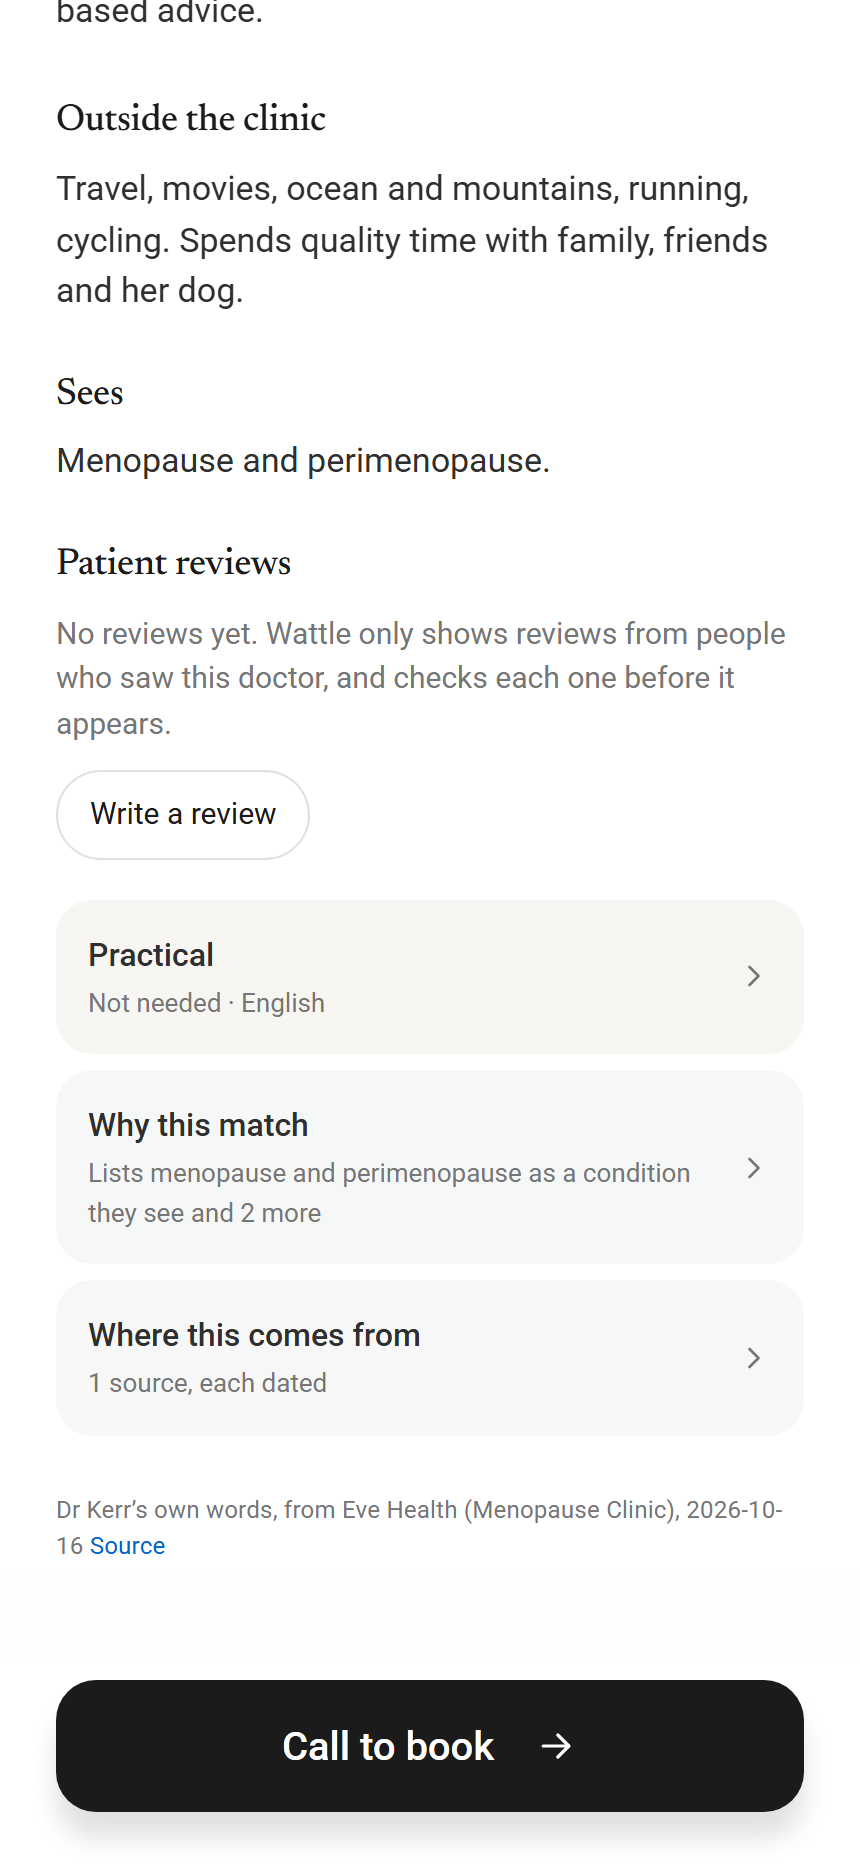
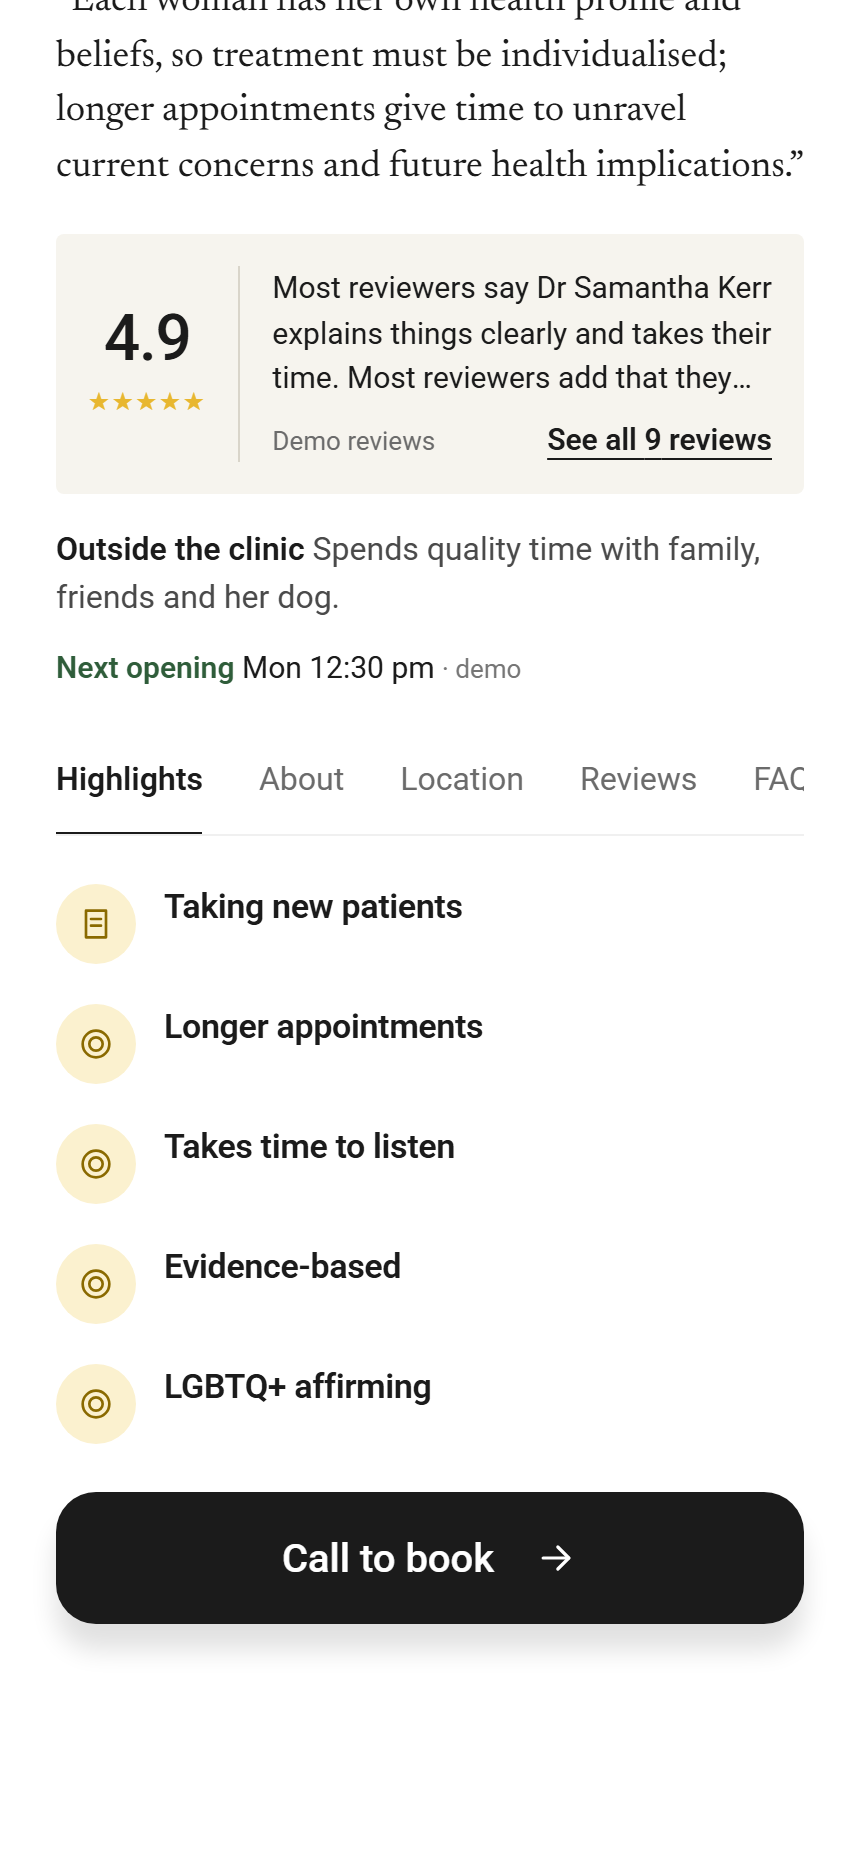
Doctor profile on the Zocdoc provider-page layout (same panel as matches, Back to search); demos QA reads the new name heading

diff --git a/src/ui/screens/patient-a/MatchPanel.tsx b/src/ui/screens/patient-a/MatchPanel.tsx
@@ -78,7 +78,7 @@ function faqs(d: DoctorRecord): { q: string; a: string }[] {
   ];
 }
 
-export function MatchPanel({ card, index, total, labels, saved, onSave, newPatientMatters = false, telehealthOnly = false }: { telehealthOnly?: boolean; card: Card; index: number; total: number; labels: Record<string, string>; saved: boolean; onSave: () => void; newPatientMatters?: boolean }) {
+export function MatchPanel({ card, index, total, labels, saved, onSave, newPatientMatters = false, telehealthOnly = false, variant = "match" }: { variant?: "match" | "profile"; telehealthOnly?: boolean; card: Card; index: number; total: number; labels: Record<string, string>; saved: boolean; onSave: () => void; newPatientMatters?: boolean }) {
   const d = card.doctor;
   const [tab, setTab] = useState<Tab>("Highlights");
   const reviews = useReviewSummary(d.id);
@@ -106,11 +106,13 @@ export function MatchPanel({ card, index, total, labels, saved, onSave, newPatie
   const tabs = TABS.filter((t) => t !== "Highlights" || highlights.length > 0);
 
   return (
-    <section className="rise" aria-label={ORDINAL[index]} data-match={index}>
-      <div className="mb-5 flex items-baseline justify-between">
-        <p className="text-[13px] font-semibold uppercase tracking-[0.08em] text-[#2f5d3a]">{ORDINAL[index]}</p>
-        <p className="text-[13px] text-grey">{index + 1} of {total}</p>
-      </div>
+    <section className="rise" aria-label={variant === "match" ? ORDINAL[index] : d.name.display} data-match={variant === "match" ? index : undefined}>
+      {variant === "match" ? (
+        <div className="mb-5 flex items-baseline justify-between">
+          <p className="text-[13px] font-semibold uppercase tracking-[0.08em] text-[#2f5d3a]">{ORDINAL[index]}</p>
+          <p className="text-[13px] text-grey">{index + 1} of {total}</p>
+        </div>
+      ) : null}
       <div className="lg:grid lg:grid-cols-[minmax(0,1fr)_500px] lg:items-start lg:gap-16">
       <div className="min-w-0">
       <header className="flex items-start gap-5">

diff --git a/src/ui/screens/patient-b/DoctorPage.tsx b/src/ui/screens/patient-b/DoctorPage.tsx
@@ -1,0 +1,23 @@
+"use client";
+// The doctor profile page on the Zocdoc provider-page layout (founder's screenshot, 2026-10-19):
+// the same panel as a match, with "Back to search" in place of the match ordinal.
+import { useEffect, useState } from "react";
+import { useRouter } from "next/navigation";
+import type { Card } from "@/src/data/search-types";
+import { Screen } from "@/src/ui/kit";
+import { getSavedIds, toggleSavedId } from "@/src/ui/store";
+import { MatchPanel } from "../patient-a/MatchPanel";
+
+export function DoctorPage({ card, labels }: { card: Card; labels: Record<string, string> }) {
+  const router = useRouter();
+  const [saved, setSaved] = useState(false);
+  useEffect(() => setSaved(getSavedIds().includes(card.doctor.id)), [card.doctor.id]);
+  return (
+    <Screen padBottom="pb-[120px]" className="frame-wide">
+      <button type="button" onClick={() => (window.history.length > 1 ? router.back() : router.push("/"))} className="press-dim mb-8 inline-flex items-center gap-3 text-[16px] text-ink">
+        <span aria-hidden="true" className="text-[18px]">‹</span> Back to search
+      </button>
+      <MatchPanel variant="profile" card={card} index={0} total={1} labels={labels} saved={saved} onSave={() => setSaved(toggleSavedId(card.doctor.id).includes(card.doctor.id))} />
+    </Screen>
+  );
+}

diff --git a/app/doctor/[id]/page.tsx b/app/doctor/[id]/page.tsx
@@ -3,7 +3,9 @@
 import { notFound } from "next/navigation";
 import { doctorIdFromParam } from "@/src/data/doctor-slug";
 import { getDoctor, mvpDiscipline } from "@/src/data/providers";
-import { Profile } from "@/src/ui/screens/patient-b/Profile";
+import { highlightsFor } from "@/src/data/highlights";
+import type { Card } from "@/src/data/search-types";
+import { DoctorPage as DoctorPageView } from "@/src/ui/screens/patient-b/DoctorPage";
 import { doctorParams } from "./params";
 
 export const revalidate = 3600;
@@ -35,5 +37,7 @@ export default async function DoctorPage({ params }: { params: Promise<{ id: str
   const { id } = await params;
   const d = await getDoctor(doctorIdFromParam(id));
   if (!d) notFound();
-  return <Profile doctor={d} labels={conditionLabelMap()} />;
+  const labels = conditionLabelMap();
+  const card: Card = { doctor: d, headline: "", score: 0, clinicalFit: { band: "listed", reasons: [] }, humanFit: { score: 0, reasons: [], basis: "none" }, evidence: [], missed: [], highlights: highlightsFor(d, undefined, labels) };
+  return <DoctorPageView card={card} labels={labels} />;
 }
